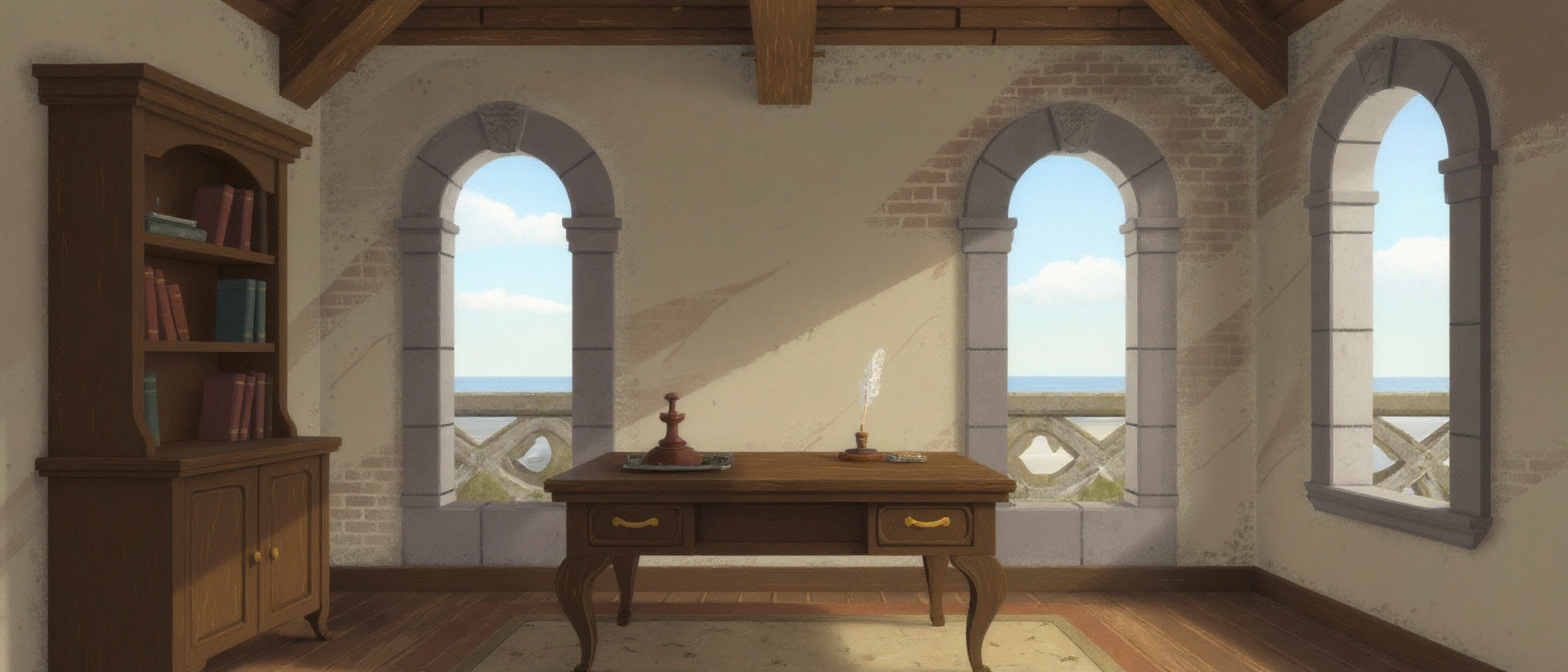
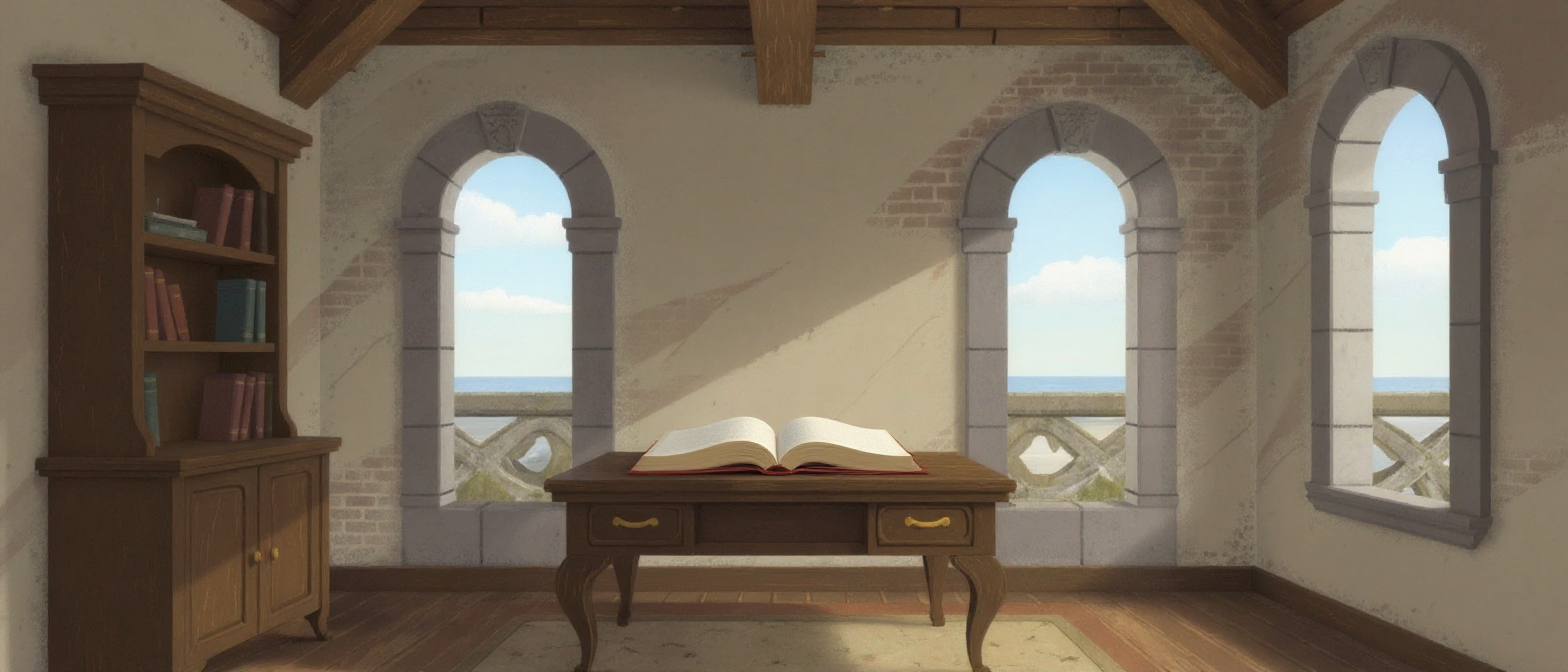
feat(study): the keeper's desk turns its own painted book
Every reading desk in the Study turns the pages of the book painted on it
with a short film of that desk, but the keeper's study was painted with a
quill and an inkwell and nothing to read. His berth had no volume, so his
commission was the one book in the house still drawn over bare wood with a
leaf swung on a keyframe.

The panel is repainted with an open book on the front of the desk. Nothing
else in the room moves, apart from the inkstand and quill it replaces. The
berth declares that book as its volume, so the card stands behind it, and a
page-turn clip filmed from the new panel plays there. The crop is 384x216
rather than the reading rooms' 288x162, because this book is wider than
their window. There is no candle in the room to keep out of frame.

Both art sheets record how the panel and the clip were made. The panel's
reference is the previous revision of the same file, identified by digest.

Changed region(s): [[0.4062, 0.5938, 0.5938, 0.7188], [0.5312, 0.5312, 0.5625, 0.5938]]

diff --git a/src/renderer/src/scene/study/bookTurns.ts b/src/renderer/src/scene/study/bookTurns.ts
@@ -22,6 +22,7 @@ import berth5 from './assets/book-turn-berth-5.mp4';
 import berth6 from './assets/book-turn-berth-6.mp4';
 import berth7 from './assets/book-turn-berth-7.mp4';
 import berth8 from './assets/book-turn-berth-8.mp4';
+import god from './assets/book-turn-god.mp4';
 
 export const TURN_SRC: Record<string, string> = {
   './book-turn-berth-1.mp4': berth1,
@@ -31,5 +32,6 @@ export const TURN_SRC: Record<string, string> = {
   './book-turn-berth-5.mp4': berth5,
   './book-turn-berth-6.mp4': berth6,
   './book-turn-berth-7.mp4': berth7,
-  './book-turn-berth-8.mp4': berth8
+  './book-turn-berth-8.mp4': berth8,
+  './book-turn-god.mp4': god
 };
